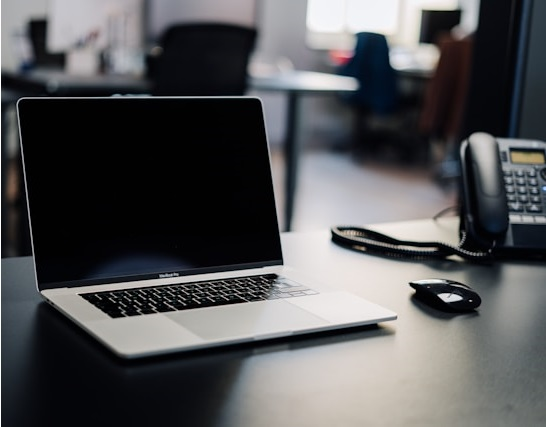
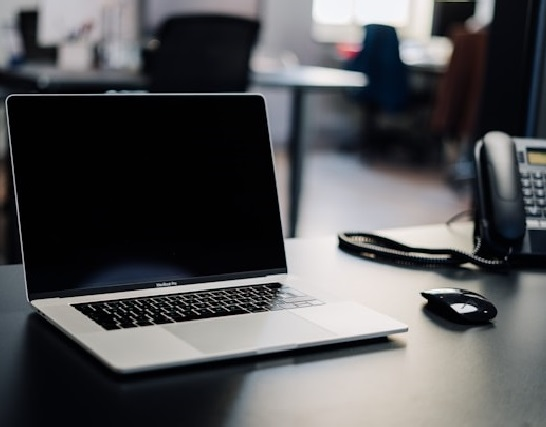
últimos efectos

diff --git a/style.css b/style.css
@@ -29,7 +29,6 @@
  /*Sección Menu*/
  section.menu{
      background-color: rgb(209, 195, 253);
-     width: 100%;
      padding: 20px;
  }
  .menu__list__item__contato{
@@ -139,15 +138,17 @@
     display: flex;
     flex-direction: column;
     align-items: center;
+    flex-wrap: nowrap;
  }
  .experience button {
-    background: #c8bffe;
-    color: rgb(0, 0, 0);
+    background: #8e7aff;
+    color: #000000;
     padding: 14px 28px;
     cursor: pointer;
     border-radius: 5px;
     font-weight: bold;
     transition: background 0.3s ease;
+    border: 1px solid #8b5ff0;
 }
  .experience button:hover{
      background: #8b5ff0;  
@@ -156,6 +157,9 @@
  
  
  /*Contacto*/
+ .formcontato{
+    background: #c8bffe;
+ }
  .formcontato__text{
      padding-left: 20px;
  }
@@ -174,16 +178,17 @@
      border-radius: 5px;    
  }
  .formcontato__botao{
-    background: #c8bffe;
-    color: rgb(0, 0, 0);
+    background: #8e7aff;
+    color: #000000;
     padding: 14px 28px;
     cursor: pointer;
     border-radius: 5px;
     font-weight: bold;
     transition: background 0.3s ease;
+    border: 1px solid #8b5ff0;
 }
 .formcontato__text button:hover{
-    background:  #8b5ff0; 
+    background:#8b5ff0  ; 
 
 }
  /*footeer*/
@@ -192,6 +197,7 @@
      padding: 2rem;
      justify-content: center;
      background-color:rgb(209, 195, 253);
+     width: 100%;
  }
  .footer__rodape{
      display: flex;
@@ -205,11 +211,12 @@
  @media (min-width: 500px) {
  
  /* Menú */
- .menu{
+ section.menu{
      display: flex;
      flex-direction: row;
      justify-content: space-around;
      gap: 10px;
+     width: 100%;
  }
  .menu__header{
      display: flex;
@@ -326,45 +333,61 @@
      justify-content: center;
      padding-top: 50px;
      align-items: center;
+     flex-direction: column;
  }
 
  .experience__box{
      display: flex;
      flex-wrap: wrap;
      gap: 30px;
-     width: 95%; 
-     align-items: center;
-     padding-top: 30px;
-     padding-left: 20px;
-     padding-bottom: 30px;
+     width: 60%; 
+     justify-content: center;
+     padding: 20px;
  }
+
  .experience__img{
-     width: 70%;
+     width: 50%;
      border-radius: 10px;
- }
- }
+     transition: transform 0.3s ease;
+    }
+         
+.experience__img:hover{
+        transform: scale(1.1);
+      }
+
  .formcontato{
-     width: 100%;
-     display: flex;
-     flex-direction:row;
+     display: flex; 
+     flex-direction:row ; 
+     flex-wrap: nowrap;
+     gap: 20px;
+     width: 80%;
+     justify-content: center;
      align-items: center;
-     padding-left: 20px;
-     padding-top: 150px;
+     padding: 20px;
+     border-radius: 10px;
+     margin: 50px;
+     
  }
  .imagen_contacto{
-     width: 100%;
+     width: 90%;
+     border-radius: 10px;
+     transition: transform 0.3s ease;
+}
      
+  .imagen_contacto:hover{
+    transform: scale(1.1);
   }
- 
+  }
  
  /*Mobile*/
  @media (max-width: 500px) {
  
  /*Menu*/
- .menu{
+ section.menu{
      display: flex;
      justify-content: space-around; 
      align-items: center;
+     width: 100%;
  }
  .menu__header{
      display: flex;
@@ -492,8 +515,14 @@
   .formcontato{
      display: flex;
      flex-direction: column;
+     width: 100%;
      
   }
+  .imagen_contacto{
+    width: 90%;
+    padding: 20px;
+    
+ }
  
  
  /*Footer*/

diff --git a/validacion.js b/validacion.js
@@ -1,36 +1,45 @@
-const campoDeFormulario= document.querySelectorAll("[required]");
-const error = document.querySelector('#error')
+// Selecciona todos los campos requeridos y el contenedor de mensajes de error
+const camposDeFormulario = document.querySelectorAll("[required]");
+const error = document.querySelector('#error');
 
-
+// Copia el texto del campo de entrada al portapapeles
 function copyText() {
     const inputText = document.getElementById("myInput");
 
     inputText.select();
-    inputText.setSelectionRange(0,99999);
-    
+    inputText.setSelectionRange(0, 99999); // Para dispositivos móviles
+
     navigator.clipboard.writeText(inputText.value)
+        .then(() => console.log('Texto copiado'))
+        .catch(err => console.error('Error al copiar el texto: ', err));
 }
 
-//recorremos los campos con forEach que recibe una funcion flecha por parametro 
-campoDeFormulario.forEach((campo)=>{
-    campo.addEventListener("blur", ()=> verificarCampo(campo))
-})
-function mensajeError() { 
-    console.log("Error.");
-    error.textContent = "Complete todos los campos"
- } 
-function verificarCampo(campo){
-    if(campo.name=== campo.value.length <= 2){
+// Verifica los campos al perder el foco
+camposDeFormulario.forEach(campo => {
+    campo.addEventListener("blur", () => verificarCampo(campo));
+});
+
+// Muestra un mensaje de error en caso de que no se completen todos los campos
+function mostrarMensajeError(mensaje) {
+    error.textContent = mensaje;
+    error.style.display = 'block';
+}
+
+// Oculta el mensaje de error
+function ocultarMensajeError() {
+    error.textContent = '';
+    error.style.display = 'none';
+}
+
+// Verifica el valor del campo y actualiza el borde y el mensaje de error
+function verificarCampo(campo) {
+    if (campo.value.trim().length < 3) { // Verifica si el valor es menor a 3 caracteres después de eliminar espacios en blanco
         campo.style.borderColor = "red";
-        mensajeError()
+        mostrarMensajeError("Complete todos los campos correctamente");
+    } else {
+        campo.style.borderColor = ""; // Resetea el borde al valor por defecto
+        ocultarMensajeError();
     }
-    else{
-        error.remove('mensajeError')
-    };
 
-  
-    console.log("verifica", campo.name);
-
+    console.log("Verificación de campo:", campo.name);
 }
-
-

diff --git a/index.html b/index.html
@@ -16,7 +16,6 @@
 
 <body>
     <!-- Sección del Menú  -->
-    <div class="tudo">
         <section class="menu">
             <header class="menu__header">
                 <img src="assets\vector.png">
@@ -35,7 +34,7 @@
                 <li class="menu__list__item__contato"><a href="#contacto">Contacto</a></li>
             </nav>
         </section>
-    </div>
+
     <!-- Sección del Header/Title/Hero -->
     <section class="title">
         <div class="title__div">
@@ -71,7 +70,7 @@
     <section class="about" id="sobre-mi">
         <h2 class="about__title">Sobre mi</h2>
         <div class="about__container">
-            <p class="about__paragraph">Tengo 23 años y soy de nacionalidad Argentina, a finales del año 2023 comencé a
+            <p class="about__paragraph">Tengo 24 años y soy de nacionalidad Argentina, a finales del año 2023 comencé a
                 formarme como desarrollador web,
                 sin tener ningun conocimiento previo sobre la programación.</p>
             <p class="about__paragraph">Elegí el camino de Front End y actualmente conozco varias tecnologías para
@@ -209,7 +208,7 @@
         <div class="experience__box">
             <img class="experience__img" src="assets/peluqueria.png">
             <div class="experience__info-container">
-                <h2 class="experience__title">Diseño de Página Web  </h2>
+                <h2 class="experience__title">Diseño de Página Web </h2>
                 <h3 class="experience__text"> Tecnologías: HTML, CSS y JavaScript</h3>
                 <h3 class="experience__text">Challenge Oracle </h3>
                 <div class="experience__description">
@@ -246,8 +245,6 @@
             <div id="error"></div>
         </div>
 
-
-
     </section>
 
     <!-- Sección de Footer -->
@@ -257,7 +254,6 @@
             <p>2024</p>
         </div>
     </section>
-    </div>
     <!-- documento JavaScript -->
     <script src="validacion.js"></script>
 </body>
